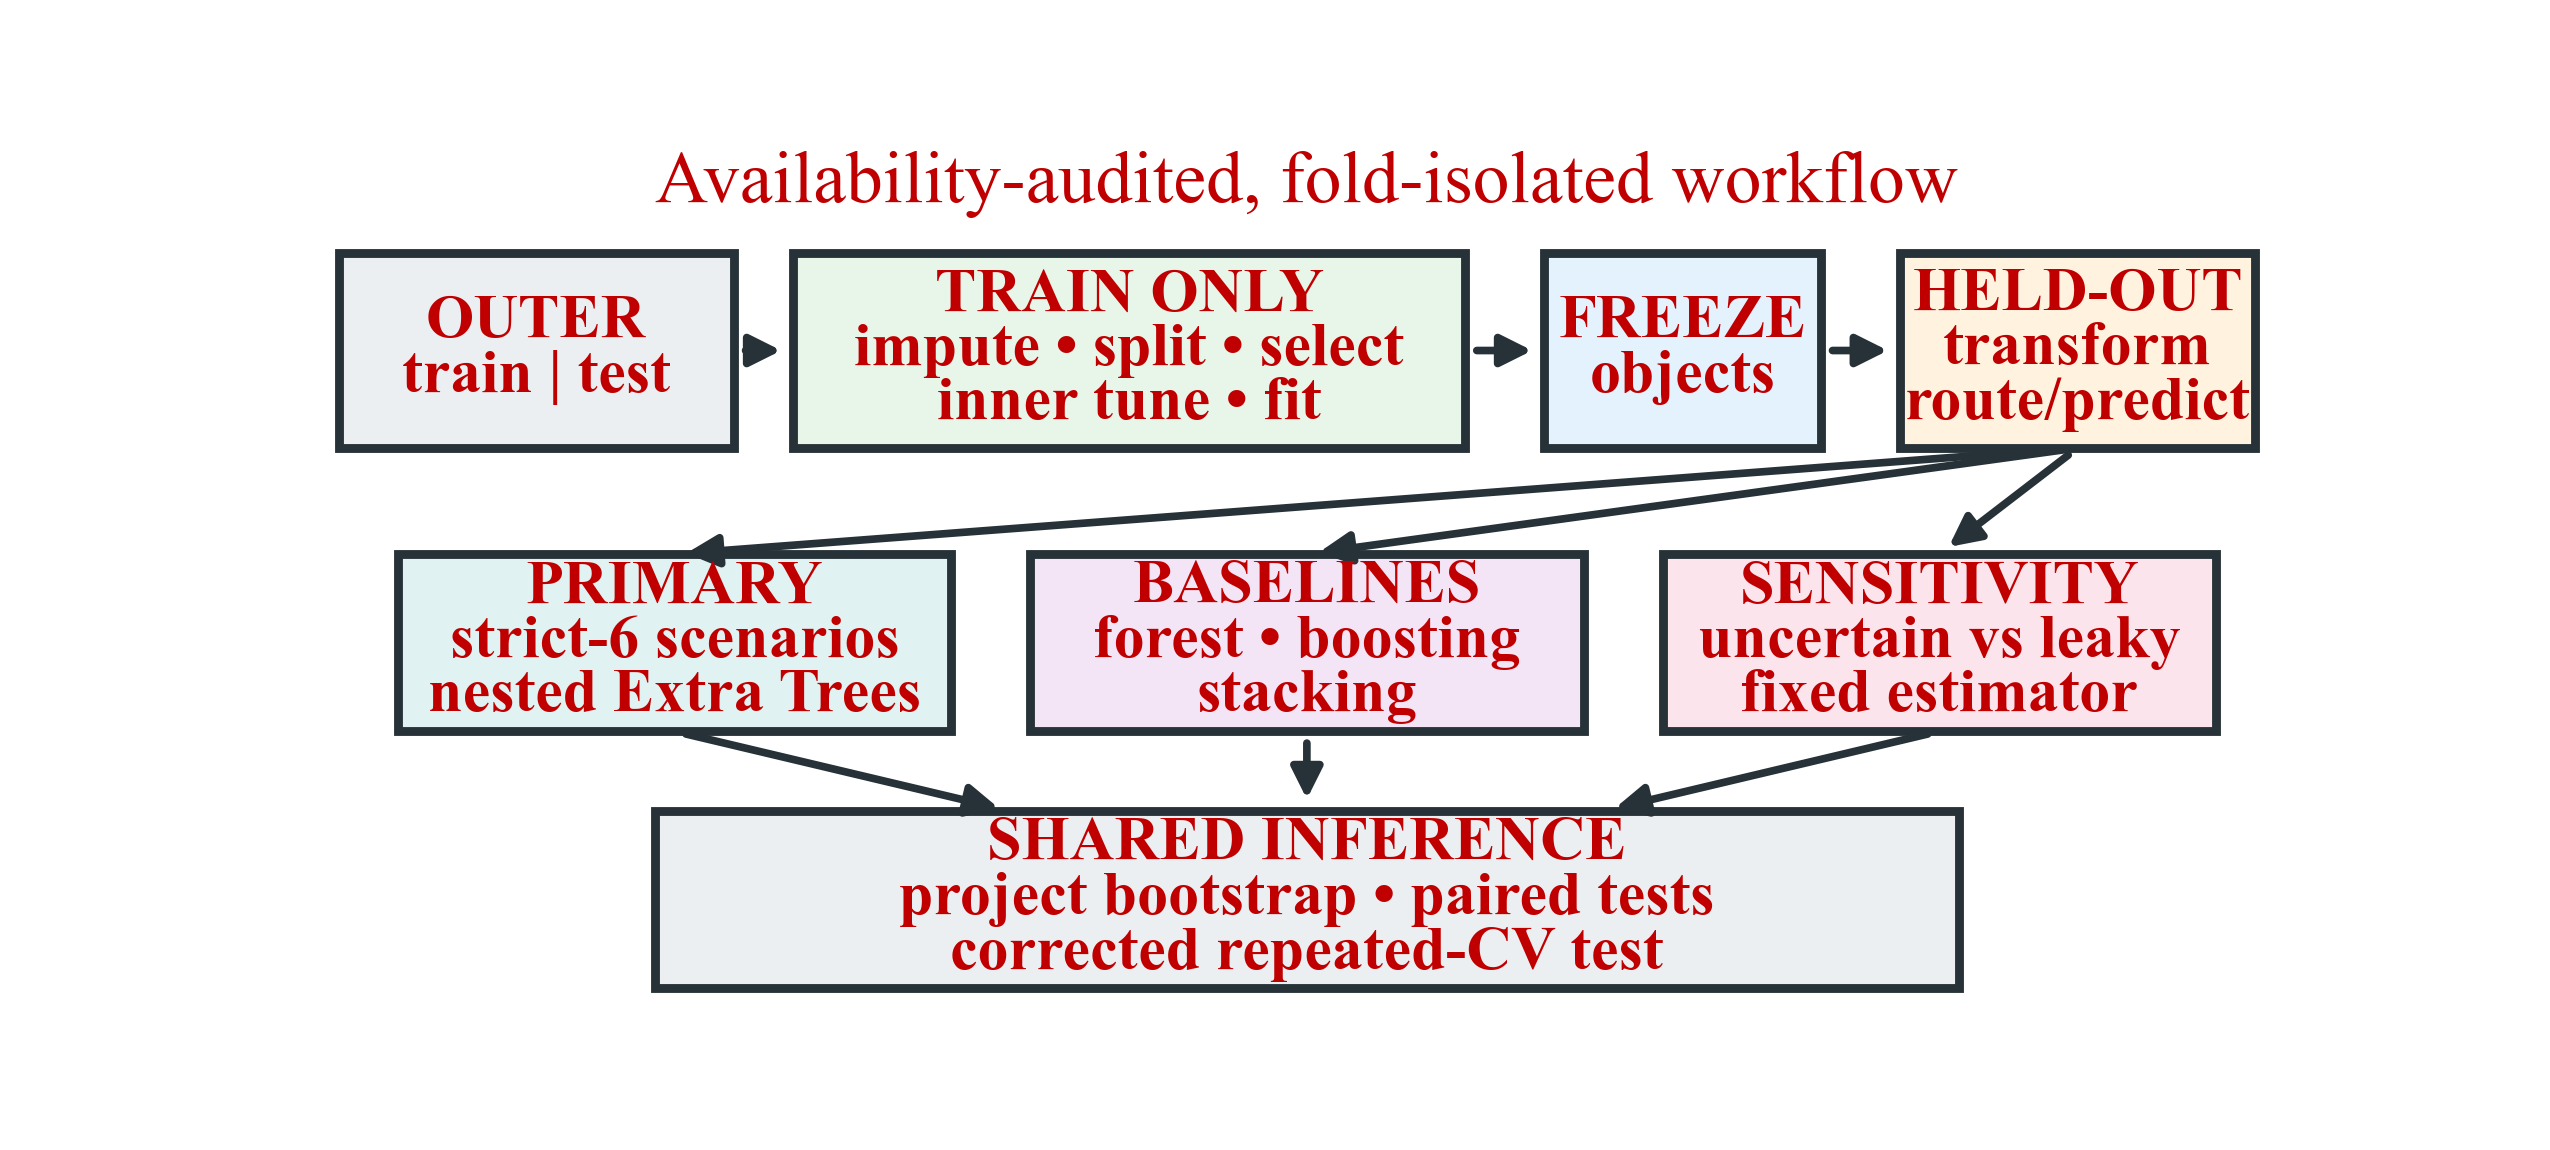
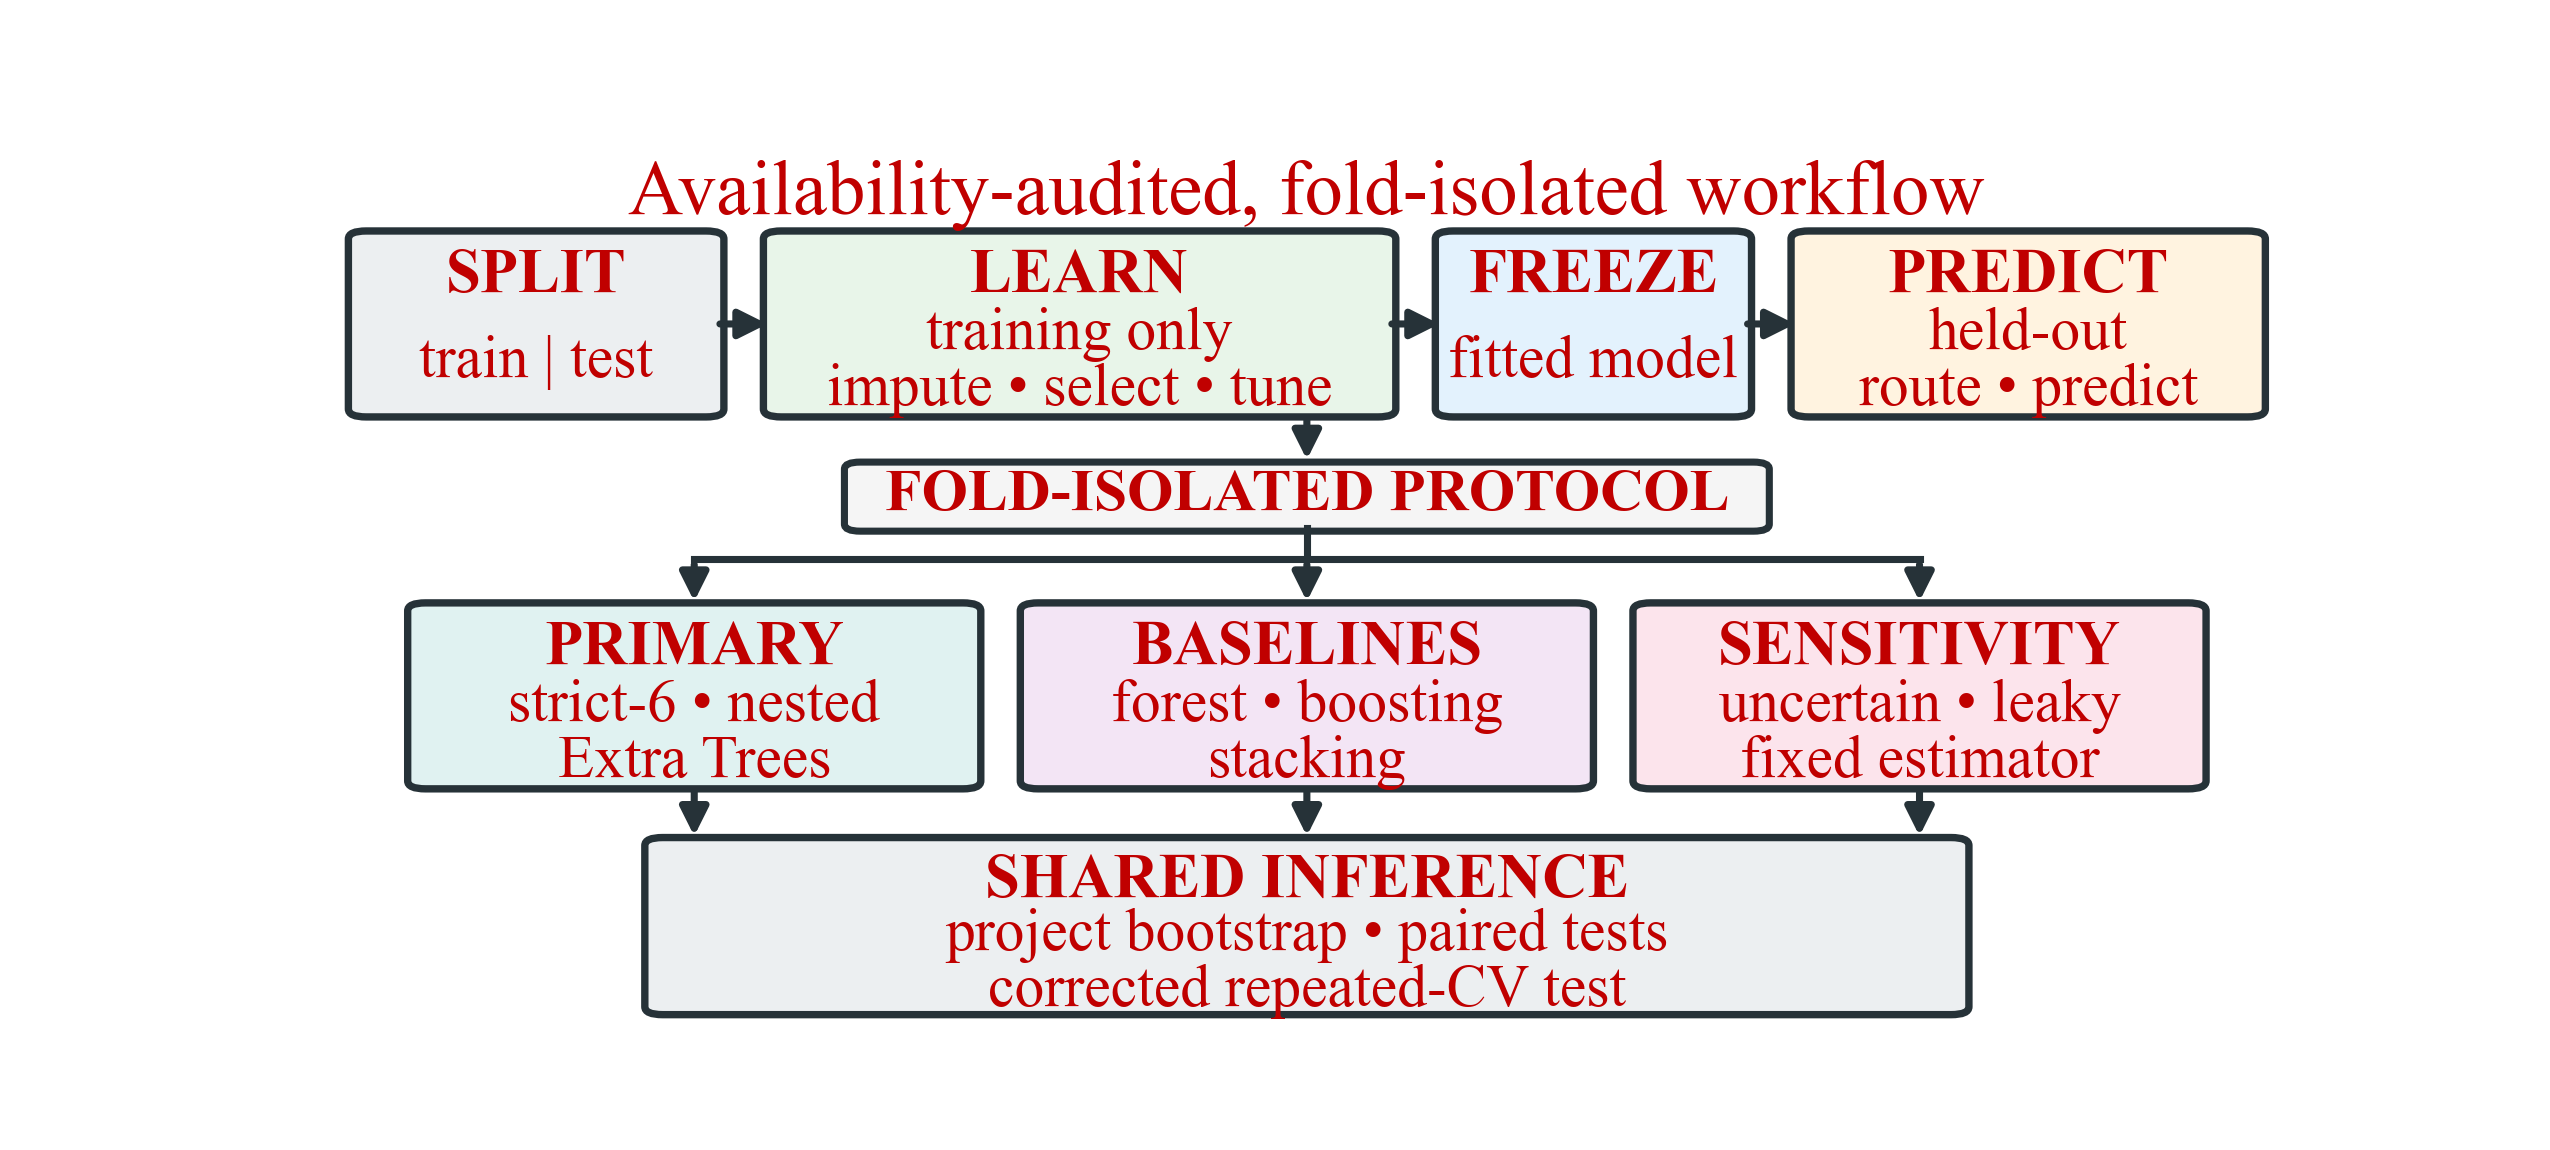
Align figures and source map with final manuscript

Changed region(s): [[0.1239, 0.1217, 0.8984, 0.913]]

diff --git a/generate_figures.py b/generate_figures.py
@@ -14,7 +14,7 @@ matplotlib.use("Agg")
 import matplotlib.pyplot as plt
 import numpy as np
 import pandas as pd
-from matplotlib.patches import FancyArrowPatch, Rectangle
+from matplotlib.patches import FancyArrowPatch, FancyBboxPatch
 from matplotlib.ticker import PercentFormatter
 
 
@@ -65,114 +65,170 @@ def workflow_figure(path: Path) -> None:
     ax.set_ylim(0, 1)
     ax.axis("off")
 
-    def box(x, y, w, h, text, face, size=10.5, weight="normal"):
-        ax.add_patch(Rectangle((x, y), w, h, facecolor=face, edgecolor=EDGE, linewidth=1.5))
+    def box(
+        x: float,
+        y: float,
+        w: float,
+        h: float,
+        title: str,
+        body: str,
+        face: str,
+        title_size: float = 10.6,
+        body_size: float = 10.1,
+    ) -> None:
+        ax.add_patch(
+            FancyBboxPatch(
+                (x, y),
+                w,
+                h,
+                boxstyle="round,pad=0.005,rounding_size=0.009",
+                facecolor=face,
+                edgecolor=EDGE,
+                linewidth=1.25,
+            )
+        )
+        ax.text(
+            x + w / 2,
+            y + h * 0.76,
+            title,
+            ha="center",
+            va="center",
+            fontsize=title_size,
+            color=TEXT_RED,
+            fontweight="bold",
+        )
+        ax.text(
+            x + w / 2,
+            y + h * 0.28,
+            body,
+            ha="center",
+            va="center",
+            fontsize=body_size,
+            color=TEXT_RED,
+            linespacing=1.02,
+        )
+
+    def band(x: float, y: float, w: float, h: float, text: str, face: str) -> None:
+        ax.add_patch(
+            FancyBboxPatch(
+                (x, y),
+                w,
+                h,
+                boxstyle="round,pad=0.004,rounding_size=0.008",
+                facecolor=face,
+                edgecolor=EDGE,
+                linewidth=1.2,
+            )
+        )
         ax.text(
             x + w / 2,
             y + h / 2,
             text,
             ha="center",
             va="center",
-            fontsize=size,
+            fontsize=10.1,
             color=TEXT_RED,
-            fontweight=weight,
-            linespacing=1.0,
+            fontweight="bold",
         )
 
-    def arrow(start, end):
+    def arrow(start: tuple[float, float], end: tuple[float, float]) -> None:
         ax.add_patch(
             FancyArrowPatch(
                 start,
                 end,
                 arrowstyle="-|>",
-                mutation_scale=11,
-                linewidth=1.3,
+                mutation_scale=10,
+                linewidth=1.2,
                 color=EDGE,
-                shrinkA=2,
-                shrinkB=2,
+                shrinkA=1,
+                shrinkB=1,
             )
         )
 
     ax.text(
         0.5,
-        0.985,
+        0.975,
         "Availability-audited, fold-isolated workflow",
         ha="center",
         va="top",
-        fontsize=12.5,
+        fontsize=13,
         color=TEXT_RED,
     )
-    box(0.01, 0.65, 0.20, 0.22, "OUTER\ntrain | test", "#ECEFF1", 10.5, "bold")
+
+    box(0.02, 0.69, 0.18, 0.20, "SPLIT", "train | test", "#ECEFF1")
     box(
-        0.24,
-        0.65,
-        0.34,
-        0.22,
-        "TRAIN ONLY\nimpute • split • select\ninner tune • fit",
+        0.23,
+        0.69,
+        0.31,
+        0.20,
+        "LEARN",
+        "training only\nimpute • select • tune",
         "#E8F5E9",
-        10.5,
-        "bold",
     )
-    box(0.62, 0.65, 0.14, 0.22, "FREEZE\nobjects", "#E3F2FD", 10.5, "bold")
+    box(0.57, 0.69, 0.15, 0.20, "FREEZE", "fitted model", "#E3F2FD")
     box(
-        0.80,
-        0.65,
-        0.18,
-        0.22,
-        "HELD-OUT\ntransform\nroute/predict",
+        0.75,
+        0.69,
+        0.23,
+        0.20,
+        "PREDICT",
+        "held-out\nroute • predict",
         "#FFF3E0",
-        10.5,
-        "bold",
     )
+
+    band(0.27, 0.56, 0.46, 0.07, "FOLD-ISOLATED PROTOCOL", "#F5F5F5")
+
     box(
-        0.04,
-        0.33,
+        0.05,
+        0.27,
         0.28,
         0.20,
-        "PRIMARY\nstrict-6 scenarios\nnested Extra Trees",
+        "PRIMARY",
+        "strict-6 • nested\nExtra Trees",
         "#E0F2F1",
-        10.5,
-        "bold",
     )
     box(
         0.36,
-        0.33,
+        0.27,
         0.28,
         0.20,
-        "BASELINES\nforest • boosting\nstacking",
+        "BASELINES",
+        "forest • boosting\nstacking",
         "#F3E5F5",
-        10.5,
-        "bold",
     )
     box(
-        0.68,
-        0.33,
+        0.67,
+        0.27,
         0.28,
         0.20,
-        "SENSITIVITY\nuncertain vs leaky\nfixed estimator",
+        "SENSITIVITY",
+        "uncertain • leaky\nfixed estimator",
         "#FCE4EC",
-        10.5,
-        "bold",
     )
     box(
         0.17,
-        0.04,
+        0.015,
         0.66,
-        0.20,
-        "SHARED INFERENCE\nproject bootstrap • paired tests\ncorrected repeated-CV test",
+        0.19,
+        "SHARED INFERENCE",
+        "project bootstrap • paired tests\ncorrected repeated-CV test",
         "#ECEFF1",
-        10.5,
-        "bold",
     )
-    arrow((0.21, 0.76), (0.24, 0.76))
-    arrow((0.58, 0.76), (0.62, 0.76))
-    arrow((0.76, 0.76), (0.80, 0.76))
-    arrow((0.89, 0.65), (0.18, 0.53))
-    arrow((0.89, 0.65), (0.50, 0.53))
-    arrow((0.89, 0.65), (0.82, 0.53))
-    arrow((0.18, 0.33), (0.35, 0.24))
-    arrow((0.50, 0.33), (0.50, 0.24))
-    arrow((0.82, 0.33), (0.65, 0.24))
+
+    arrow((0.20, 0.79), (0.23, 0.79))
+    arrow((0.54, 0.79), (0.57, 0.79))
+    arrow((0.72, 0.79), (0.75, 0.79))
+
+    arrow((0.50, 0.69), (0.50, 0.63))
+    ax.plot([0.50, 0.50], [0.56, 0.525], color=EDGE, linewidth=1.2)
+    ax.plot([0.19, 0.81], [0.525, 0.525], color=EDGE, linewidth=1.2)
+    arrow((0.19, 0.525), (0.19, 0.47))
+    arrow((0.50, 0.525), (0.50, 0.47))
+    arrow((0.81, 0.525), (0.81, 0.47))
+
+    arrow((0.19, 0.27), (0.19, 0.205))
+    arrow((0.50, 0.27), (0.50, 0.205))
+    arrow((0.81, 0.27), (0.81, 0.205))
     save_exact(fig, path, 2550, 1150, dpi=425)
 
 
@@ -193,7 +249,7 @@ def provenance_figure(metrics: pd.DataFrame, path: Path) -> None:
     labels = ["Leaky 14", "Uncertain 9", "Strict 6"]
     bar_colors = ["#C62828", "#D98E04", "#2A9D8F"]
     fig, axes = plt.subplots(1, 2)
-    for ax, metric, title in zip(axes, ["MAE", "Pred25"], ["MAE (person-hours)", "Pred(25), %"]):
+    for ax, metric, title in zip(axes, ["MAE", "Pred25"], ["MAE in person-hours", "Pred(25), %"]):
         rows = [metric_lookup(metrics, "scale_fixed_et_sensitivity", protocol, "Global", metric) for protocol in protocols]
         values = np.asarray([row["estimate_full_precision"] for row in rows])
         lower = values - np.asarray([row["ci_2_5"] for row in rows])
@@ -202,21 +258,20 @@ def provenance_figure(metrics: pd.DataFrame, path: Path) -> None:
         ax.bar(positions, values, color=bar_colors, width=0.62)
         ax.errorbar(positions, values, yerr=np.vstack([lower, upper]), fmt="none", color=EDGE, capsize=4, linewidth=1.3)
         ax.set_xticks(positions, labels)
-        ax.set_title(title, fontsize=12)
-        ax.tick_params(axis="x", labelsize=11.5)
-        ax.tick_params(axis="y", labelsize=11.5)
+        ax.set_title(title, fontsize=12.5)
+        ax.tick_params(axis="x", labelsize=12)
+        ax.tick_params(axis="y", labelsize=12)
         ax.grid(axis="y", alpha=0.8)
         ax.set_axisbelow(True)
         if metric == "Pred25":
             ax.set_ylim(0, 105)
             ax.yaxis.set_major_formatter(PercentFormatter(xmax=100, decimals=0))
-    fig.suptitle("Feature provenance changes apparent accuracy", fontsize=13.5, color=TEXT_RED)
-    fig.subplots_adjust(left=0.07, right=0.98, bottom=0.24, top=0.78, wspace=0.22)
-    save_exact(fig, path, 2850, 900, dpi=425)
+    fig.subplots_adjust(left=0.07, right=0.985, bottom=0.28, top=0.80, wspace=0.22)
+    save_exact(fig, path, 2850, 720, dpi=425)
 
 
 def performance_figure(metrics: pd.DataFrame, path: Path) -> None:
-    methods = list(COLORS)
+    methods = ["Global", "Global + MI", "Quantile", "Quantile + MI"]
     metric_titles = [("MAE", "MAE"), ("RMSE", "RMSE"), ("Pred25", "Pred(25), %"), ("R2", r"$R^2$")]
     fig, axes = plt.subplots(2, 2)
     for axis_index, (ax, (metric, title)) in enumerate(zip(axes.flat, metric_titles)):
@@ -248,7 +303,7 @@ def performance_figure(metrics: pd.DataFrame, path: Path) -> None:
             transform=ax.transAxes,
             ha="right",
             va="top",
-            fontsize=11.5,
+            fontsize=12,
             color=TEXT_RED,
             bbox={"facecolor": "white", "edgecolor": "none", "alpha": 0.82, "pad": 0.8},
         )
@@ -256,14 +311,11 @@ def performance_figure(metrics: pd.DataFrame, path: Path) -> None:
             ax.xaxis.tick_top()
             ax.tick_params(axis="x", labeltop=True, labelbottom=False)
         ax.grid(axis="x", alpha=0.8)
-        ax.tick_params(labelsize=11.5)
+        ax.tick_params(labelsize=12)
         if metric == "Pred25":
             ax.xaxis.set_major_formatter(PercentFormatter(xmax=100, decimals=0))
-    fig.suptitle("Strict-6 nested Extra Trees: shared 95% confidence intervals", fontsize=13.5, color=TEXT_RED)
-    # Keep the four panels legible at the final 6.1-inch manuscript width,
-    # while avoiding a tall canvas that forces an otherwise unnecessary page.
-    fig.subplots_adjust(left=0.18, right=0.98, bottom=0.12, top=0.78, hspace=0.24, wspace=0.26)
-    save_exact(fig, path, 2850, 1120, dpi=425)
+    fig.subplots_adjust(left=0.18, right=0.985, bottom=0.10, top=0.82, hspace=0.20, wspace=0.26)
+    save_exact(fig, path, 2850, 980, dpi=425)
 
 
 def paired_delta_frame(predictions: pd.DataFrame) -> pd.DataFrame:
@@ -303,20 +355,19 @@ def paired_figure(predictions: pd.DataFrame, path: Path) -> None:
         parts[key].set_linewidth(1.2)
     ax.axhline(0, color=TEXT_RED, linestyle="--", linewidth=1.4)
     ax.set_xticks(np.arange(1, 4), methods)
-    ax.set_title("Per-project error difference (five-repeat mean)", fontsize=13)
-    ax.text(
-        0.01,
-        0.95,
-        "Error difference (hours); positive favors comparator",
-        transform=ax.transAxes,
+    fig.text(
+        0.078,
+        0.955,
+        "Error difference in hours; positive favors comparator",
+        ha="left",
         va="top",
         fontsize=11.5,
         color=TEXT_RED,
     )
     ax.grid(axis="y", alpha=0.8)
     ax.tick_params(labelsize=11.5)
-    fig.subplots_adjust(left=0.16, right=0.98, bottom=0.20, top=0.82)
-    save_exact(fig, path, 2850, 900, dpi=425)
+    fig.subplots_adjust(left=0.078, right=0.985, bottom=0.25, top=0.80)
+    save_exact(fig, path, 2850, 670, dpi=425)
 
 
 def category_figure(summary: pd.DataFrame, path: Path) -> None:
@@ -361,15 +412,14 @@ def mi_figure(mi_records: pd.DataFrame, path: Path) -> None:
     image = ax.imshow(matrix.to_numpy(), aspect="auto", cmap="YlGnBu", vmin=0, vmax=1)
     ax.set_xticks(np.arange(len(feature_order)), feature_order, rotation=0, ha="center")
     ax.set_yticks(np.arange(len(row_order)), row_order)
-    ax.set_title("Mutual-information selection stability", fontsize=13)
     ax.tick_params(labelsize=11.5)
     colorbar = fig.colorbar(image, ax=ax, fraction=0.028, pad=0.02)
-    colorbar.ax.set_title("Frequency", color=TEXT_RED, fontsize=11.5, pad=4)
+    colorbar.set_ticks([0.0, 0.5, 1.0])
     colorbar.ax.tick_params(colors=TEXT_RED, labelsize=11.5)
     for spine in colorbar.ax.spines.values():
         spine.set_edgecolor(EDGE)
-    fig.subplots_adjust(left=0.32, right=0.88, bottom=0.31, top=0.78)
-    save_exact(fig, path, 2850, 850, dpi=425)
+    fig.subplots_adjust(left=0.315, right=0.90, bottom=0.25, top=0.96)
+    save_exact(fig, path, 2850, 760, dpi=425)
 
 
 def parse_args() -> argparse.Namespace:
@@ -393,7 +443,9 @@ if __name__ == "__main__":
     provenance_figure(metrics_frame, output_dir / "image3.png")
     performance_figure(metrics_frame, output_dir / "image4.png")
     paired_figure(prediction_frame, output_dir / "image5.png")
-    category_figure(category_frame, output_dir / "image6.png")
-    mi_figure(mi_frame, output_dir / "image7.png")
-    for path in sorted(output_dir.glob("image*.png")):
+    # Category adequacy is reported in manuscript Table 7; retain its plot as
+    # a supplementary diagnostic rather than assigning it a figure number.
+    category_figure(category_frame, output_dir / "diagnostic_category_adequacy.png")
+    mi_figure(mi_frame, output_dir / "image6.png")
+    for path in sorted(output_dir.glob("*.png")):
         print(path)

diff --git a/README.md b/README.md
@@ -36,12 +36,12 @@ The empirical conclusions are conditioned on this 499-project dataset and should
 ├── outputs/
 │   └── revision_v1/
 └── figures/
+    ├── diagnostic_category_adequacy.png
     ├── image2.png
     ├── image3.png
     ├── image4.png
     ├── image5.png
-    ├── image6.png
-    └── image7.png
+    └── image6.png
 ```
 
 `manuscript_source_map.json` maps every reported manuscript table and figure to its exact machine-readable source artifacts.
@@ -107,7 +107,7 @@ python generate_figures.py \
   --output-dir figures/rebuilt
 ```
 
-The generated plots use the verified full-precision artifacts. Display rounding is applied only during rendering.
+The generated plots use the verified full-precision artifacts. `image2.png` through `image6.png` correspond to manuscript Figs. 1-5; `diagnostic_category_adequacy.png` supplements Table 7. Display rounding is applied only during rendering.
 
 ## Dataset provenance
 
